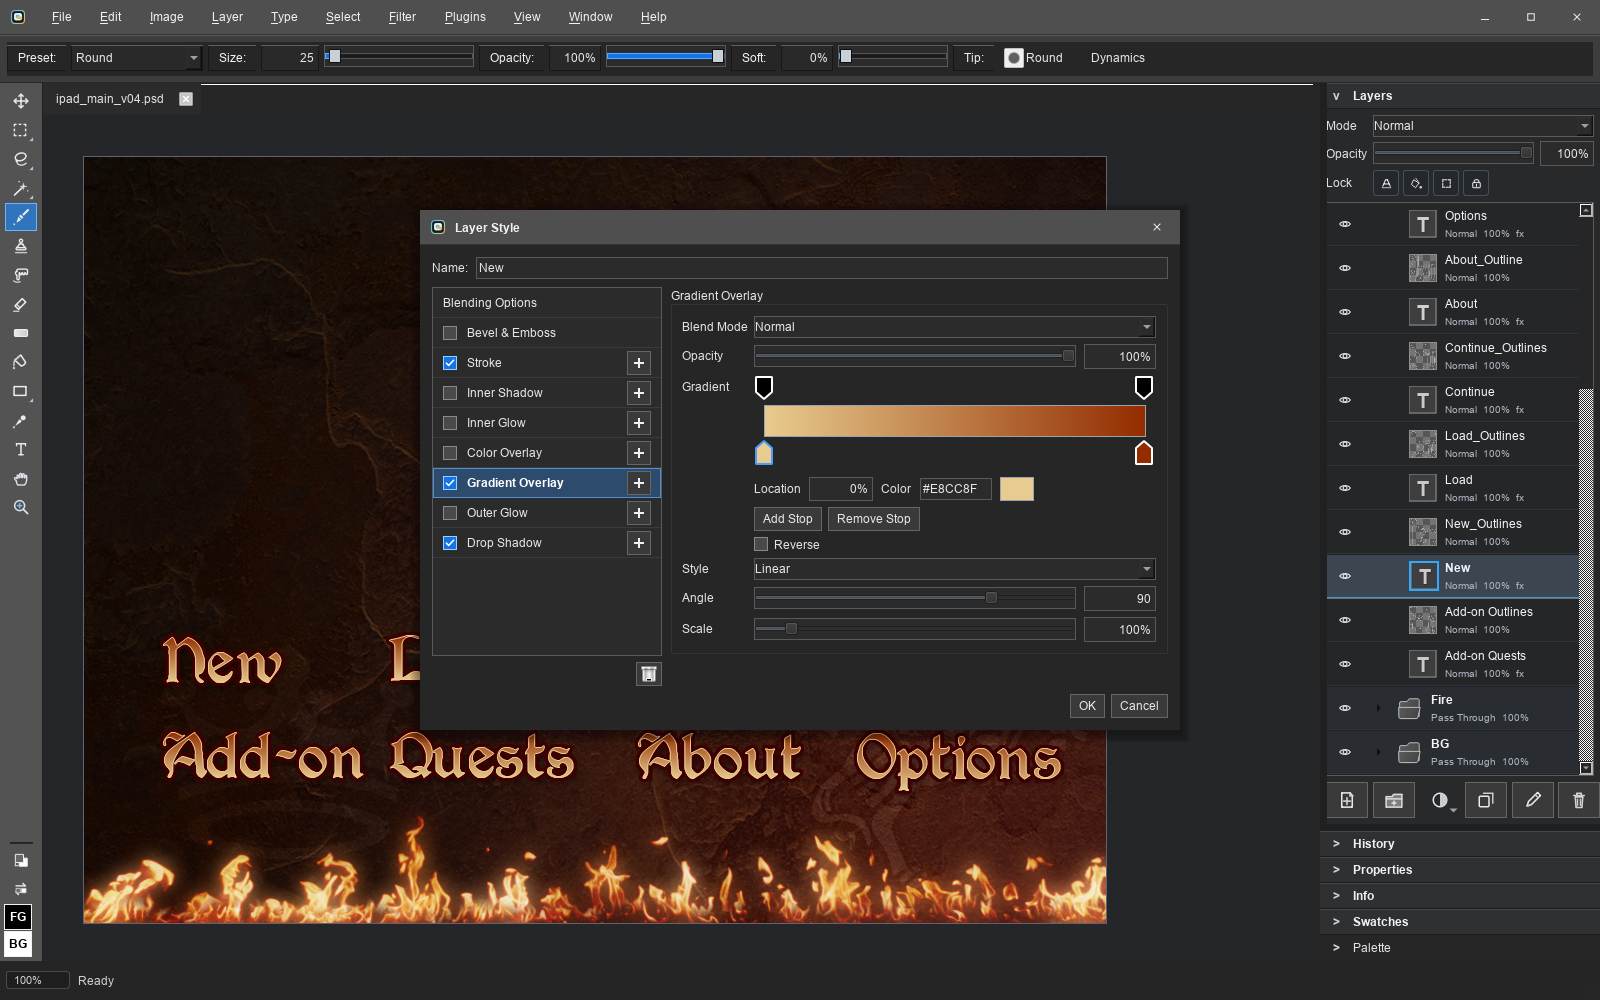
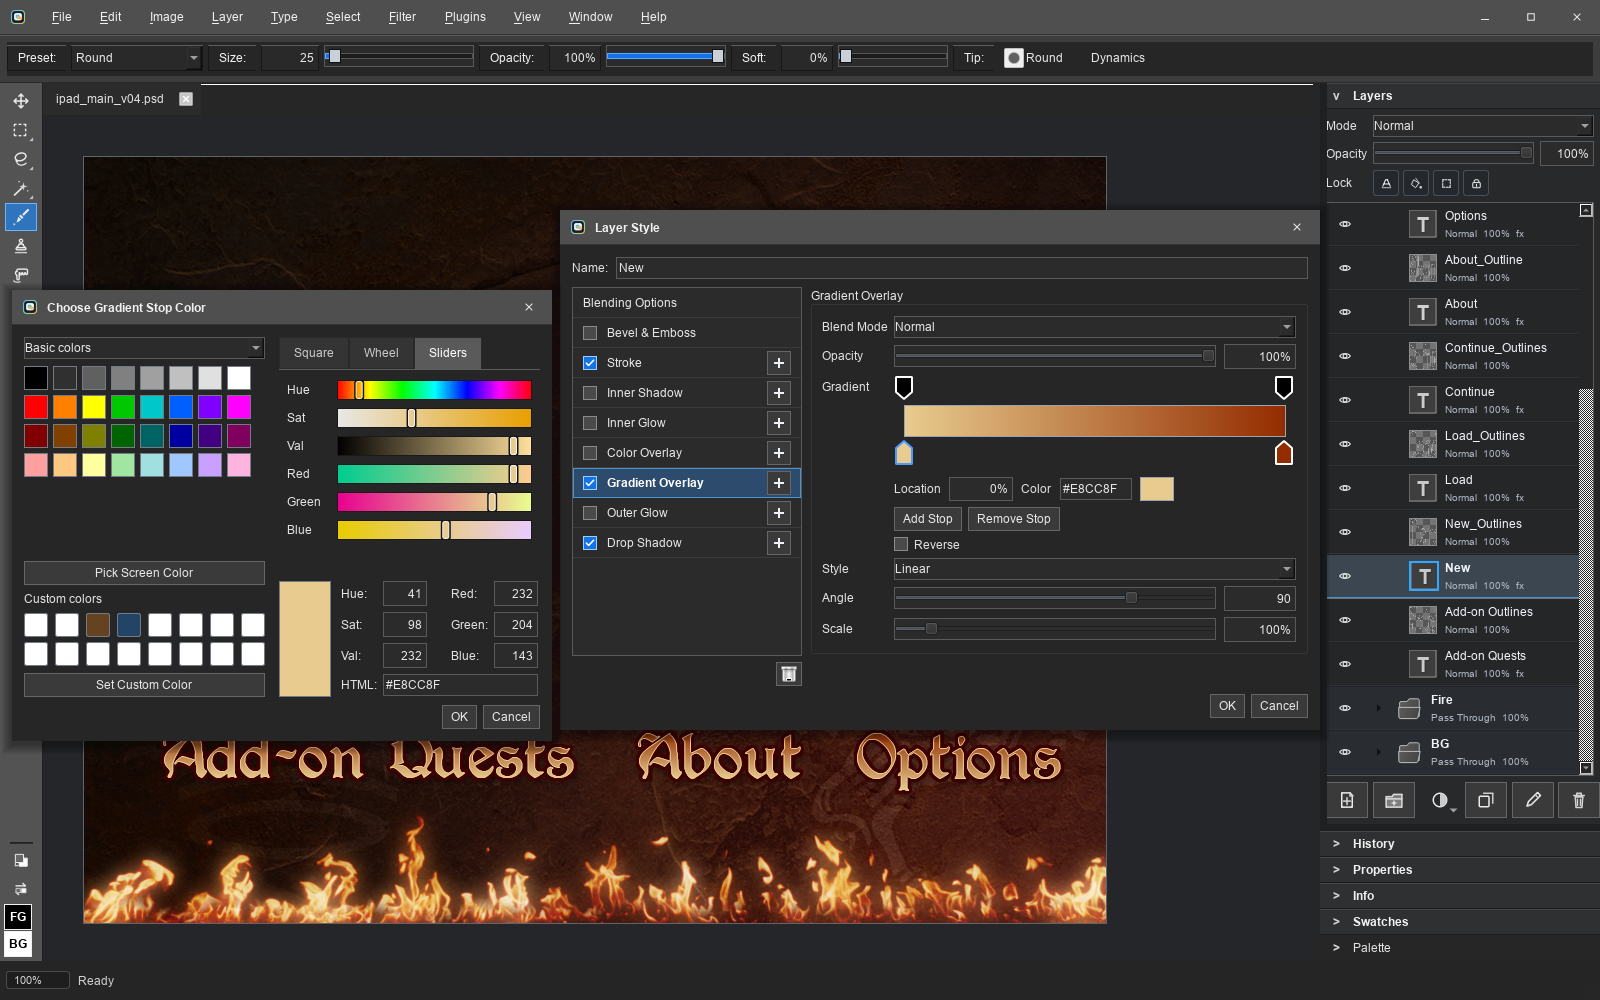
README screenshots: show the color picker in each of its three modes across the retouching, gradient, and palettized shots (Wheel + DOS/VGA 256 dropdown, Sliders from a gradient stop, Square on the C64 current palette)

diff --git a/tests/ui_visual_tests.cpp b/tests/ui_visual_tests.cpp
@@ -27975,8 +27975,50 @@ void seed_default_brush_tips_for_readme_shot() {
   settings.sync();
 }
 
-// Photo-editing hero: the Okinawa cycling photo with rulers and grid on, and
-// the Levels dialog's live histogram floating over the canvas.
+// Points an open color picker at one of its three modes (0 Square, 1 Wheel,
+// 2 Sliders) and optionally a palette-dropdown choice, so each README shot
+// showing a picker presents a different face. Both writes persist app-wide
+// (colorPanel/lastTab, palettes/lastPaletteChoice); callers hold
+// SettingsValueRestorers for them.
+void configure_readme_color_picker(QDialog& dialog, int tab_index, const char* palette_choice) {
+  auto* picker = dialog.findChild<patchy::ui::PatchyColorPicker*>(QStringLiteral("patchyAdvancedColorPicker"));
+  CHECK(picker != nullptr);
+  auto* tabs = picker->findChild<QTabWidget*>(QStringLiteral("patchyColorPickerTabs"));
+  CHECK(tabs != nullptr);
+  CHECK(tabs->count() == 3);
+  tabs->setCurrentIndex(tab_index);
+  if (palette_choice != nullptr) {
+    auto* combo = picker->findChild<QComboBox*>(QStringLiteral("patchyColorPaletteCombo"));
+    CHECK(combo != nullptr);
+    const auto row = combo->findData(QString::fromLatin1(palette_choice));
+    CHECK(row >= 0);
+    combo->setCurrentIndex(row);
+  }
+  QApplication::processEvents();
+}
+
+// Opens the persistent Foreground Color picker via the toolbox swatch, applies
+// the requested mode, and parks it at a window-relative offset (the left side
+// in every scene, clear of the featured dialog on the right).
+QDialog* open_foreground_picker_for_readme_shot(patchy::ui::MainWindow& window, int tab_index,
+                                                const char* palette_choice, QPoint offset) {
+  auto* foreground = window.findChild<QPushButton*>(QStringLiteral("foregroundColorButton"));
+  CHECK(foreground != nullptr);
+  foreground->click();
+  QApplication::processEvents();
+  auto* dialog = find_top_level_dialog(QStringLiteral("patchyColorDialog"));
+  CHECK(dialog != nullptr);
+  CHECK(dialog->isVisible());
+  configure_readme_color_picker(*dialog, tab_index, palette_choice);
+  dialog->move(window.geometry().topLeft() + offset);
+  QApplication::processEvents();
+  return dialog;
+}
+
+// Photo-editing hero: the Okinawa cycling photo with rulers and grid on, the
+// Levels dialog's live histogram floating over the canvas, and the color
+// picker on the left in Wheel mode with its palette dropdown caught mid-choice
+// on DOS / VGA 256.
 void shot_readme_levels() {
   const auto path = patchy::test::local_psd_fixture_path("akiko_cycling_okinawa.jpg");
   if (!std::filesystem::exists(path)) {
@@ -27985,6 +28027,10 @@ void shot_readme_levels() {
   }
   QImage photo(QString::fromStdString(path.string()));
   CHECK(!photo.isNull());
+  // The picker tab and palette-dropdown choice persist app-wide; scope them to
+  // this scene so the other shots (and later suite runs) pick their own.
+  SettingsValueRestorer picker_tab_restorer(QStringLiteral("colorPanel/lastTab"));
+  SettingsValueRestorer palette_choice_restorer(QStringLiteral("palettes/lastPaletteChoice"));
   {
     // A coarse line grid reads well over a photo; the default fine mesh at
     // fit zoom washes the image out.
@@ -28015,6 +28061,17 @@ void shot_readme_levels() {
   require_action(window, "viewFitOnScreenAction")->trigger();
   QApplication::processEvents();
 
+  // Foreground color picker on the left (Wheel mode), its swatch grid already
+  // on DOS / VGA 256; the capture below opens the dropdown over it so the shot
+  // reads as the palette being chosen.
+  const QPoint picker_offset(60, 270);
+  auto* picker_dialog = open_foreground_picker_for_readme_shot(window, 1, "vga256", picker_offset);
+  auto* picker =
+      picker_dialog->findChild<patchy::ui::PatchyColorPicker*>(QStringLiteral("patchyAdvancedColorPicker"));
+  CHECK(picker != nullptr);
+  picker->setCurrentColor(QColor(0xE0, 0x50, 0x7A));  // the bike's bar-tape pink
+  QApplication::processEvents();
+
   bool captured = false;
   QTimer::singleShot(0, [&] {
     auto* dialog = find_top_level_dialog(QStringLiteral("patchyLevelsDialog"));
@@ -28026,16 +28083,32 @@ void shot_readme_levels() {
     const QPoint dialog_offset(790, 250);
     dialog->move(window.geometry().topLeft() + dialog_offset);
     QApplication::processEvents();
+    auto* combo = picker_dialog->findChild<QComboBox*>(QStringLiteral("patchyColorPaletteCombo"));
+    CHECK(combo != nullptr);
+    CHECK(combo->currentData().toString() == QStringLiteral("vga256"));
+    combo->showPopup();
+    QApplication::processEvents();
+    auto* palette_popup = combo->view()->window();
+    CHECK(palette_popup != nullptr);
+    CHECK(palette_popup->isVisible());
     reset_readme_status_bar(window);
     auto base = window.grab().toImage();
+    draw_readme_overlay(base, picker_dialog->grab().toImage(), picker_offset);
+    // The dropdown hangs off the combo's bottom edge, exactly where a click
+    // would open it.
+    const auto popup_offset = picker_offset + combo->mapTo(picker_dialog, QPoint(0, combo->height() + 1));
+    draw_readme_overlay(base, palette_popup->grab().toImage(), popup_offset);
     draw_readme_overlay(base, dialog->grab().toImage(), dialog_offset);
     save_readme_shot("shot_readme_levels", base);
     captured = true;
+    combo->hidePopup();
     dialog->reject();
   });
   require_action(window, "imageAdjustLevelsAction")->trigger();
   QApplication::processEvents();
   CHECK(captured);
+  picker_dialog->close();
+  QApplication::processEvents();
 
   // Rulers/grid persist to view settings on window teardown; toggle them back
   // off so the scenes that run after this one keep their clean canvases.
@@ -28046,13 +28119,17 @@ void shot_readme_levels() {
 
 // Layer Style dialog over the same PSD, opened on a button layer that carries
 // a drop shadow + stroke + gradient overlay, showing the Gradient Overlay page
-// with the two-track (color + opacity) stop editor.
+// with the two-track (color + opacity) stop editor — plus the "Choose Gradient
+// Stop Color" picker (Sliders mode) that clicking the selected 0% stop opens,
+// floating on the left.
 void shot_readme_layer_styles() {
   const auto path = patchy::test::local_psd_fixture_path("ipad_main_v04.psd");
   if (!std::filesystem::exists(path)) {
     std::cout << "[SKIP] ipad_main_v04 fixture missing: " << path.string() << '\n';
     return;
   }
+  SettingsValueRestorer picker_tab_restorer(QStringLiteral("colorPanel/lastTab"));
+  SettingsValueRestorer palette_choice_restorer(QStringLiteral("palettes/lastPaletteChoice"));
   patchy::ui::MainWindow window;
   show_readme_shot_window(window);
   window.add_document_session(patchy::psd::DocumentIo::read_file(path), QStringLiteral("ipad_main_v04.psd"));
@@ -28085,14 +28162,44 @@ void shot_readme_layer_styles() {
     categories->setCurrentItem(gradient_item);
     QApplication::processEvents();
 
-    const QPoint dialog_offset(420, 210);
+    // Right of center so the stop picker fits on the left without covering
+    // the dialog (or the layer list's fx badges).
+    const QPoint dialog_offset(560, 210);
     dialog->move(window.geometry().topLeft() + dialog_offset);
     QApplication::processEvents();
-    reset_readme_status_bar(window);
-    auto base = window.grab().toImage();
-    draw_readme_overlay(base, dialog->grab().toImage(), dialog_offset);
-    save_readme_shot("shot_readme_layer_styles", base);
-    captured = true;
+
+    // Clicking the already-selected 0% color stop opens the stop's color
+    // picker; it runs a nested event loop inside the release event, so the
+    // capture is scheduled first and fires while the picker is up.
+    auto* editor = dialog->findChild<patchy::ui::GradientStopsEditorWidget*>(
+        QStringLiteral("layerStyleGradientStopsEditor"));
+    auto* location = dialog->findChild<QSpinBox*>(QStringLiteral("layerStyleGradientStopLocationSpin"));
+    CHECK(editor != nullptr);
+    CHECK(location != nullptr);
+    CHECK(editor->isVisible());
+    CHECK(location->value() == 0);  // the 0% stop opens the page selected
+    // The color tags live below the bar; the 0% tag sits at the left gutter.
+    const QPoint stop_tag(10, editor->height() - 18);
+    send_mouse(*editor, QEvent::MouseButtonPress, stop_tag, Qt::LeftButton, Qt::LeftButton);
+    QTimer::singleShot(0, [&] {
+      auto* picker_dialog = find_top_level_dialog(QStringLiteral("patchyColorDialog"));
+      CHECK(picker_dialog != nullptr);
+      CHECK(picker_dialog->isVisible());
+      configure_readme_color_picker(*picker_dialog, 2, "basic");
+      const QPoint picker_offset(12, 290);
+      picker_dialog->move(window.geometry().topLeft() + picker_offset);
+      process_events_for(120);
+      reset_readme_status_bar(window);
+      auto base = window.grab().toImage();
+      draw_readme_overlay(base, dialog->grab().toImage(), dialog_offset);
+      draw_readme_overlay(base, picker_dialog->grab().toImage(), picker_offset);
+      save_readme_shot("shot_readme_layer_styles", base);
+      captured = true;
+      picker_dialog->reject();  // restores the stop's original color
+    });
+    send_mouse(*editor, QEvent::MouseButtonRelease, stop_tag, Qt::LeftButton, Qt::NoButton);
+    QApplication::processEvents();
+    CHECK(captured);
     dialog->reject();
   });
   require_action(window, "layerBlendingOptionsAction")->trigger();
@@ -28238,8 +28345,9 @@ void shot_readme_brush_dynamics() {
 
 // Palettized (indexed color) mode: the Okinawa photo converted to the
 // Commodore 64 palette (WYSIWYG canvas), the Palette panel expanded with the
-// C64 swatches, and the Convert to Indexed dialog re-opened with its palette
-// dropdown showing the built-in retro presets.
+// C64 swatches, the Convert to Indexed dialog re-opened with its palette
+// dropdown showing the built-in retro presets, and the color picker on the
+// left (Square mode) pinned to the document's Current palette.
 void shot_readme_palette_mode() {
   const auto path = patchy::test::local_psd_fixture_path("akiko_cycling_okinawa.jpg");
   if (!std::filesystem::exists(path)) {
@@ -28248,6 +28356,7 @@ void shot_readme_palette_mode() {
   }
   QImage photo(QString::fromStdString(path.string()));
   CHECK(!photo.isNull());
+  SettingsValueRestorer picker_tab_restorer(QStringLiteral("colorPanel/lastTab"));
   patchy::ui::MainWindow window;
   show_readme_shot_window(window);
   window.add_document_session(patchy::ui::document_from_qimage(photo, "akiko_cycling_okinawa"),
@@ -28293,6 +28402,31 @@ void shot_readme_palette_mode() {
   }
   QApplication::processEvents();
 
+  // Color picker on the left (Square mode): palette mode pins its dropdown to
+  // the document's Current palette, so the swatch grid shows the 16 C64
+  // colors. Click the light-blue swatch so a cell reads as selected and the
+  // foreground color matches the constrained document.
+  const QPoint picker_offset(50, 250);
+  auto* picker_dialog = open_foreground_picker_for_readme_shot(window, 0, nullptr, picker_offset);
+  {
+    auto* combo = picker_dialog->findChild<QComboBox*>(QStringLiteral("patchyColorPaletteCombo"));
+    CHECK(combo != nullptr);
+    CHECK(combo->currentData().toString() == QStringLiteral("current"));
+    auto* grid = picker_dialog->findChild<QWidget*>(QStringLiteral("patchyColorPaletteGrid"));
+    CHECK(grid != nullptr);
+    CHECK(grid->property("paletteColorCount").toInt() == 16);
+    const auto cell = grid->property("paletteCellSize").toInt() + grid->property("paletteCellGap").toInt();
+    const auto columns = grid->property("paletteColumns").toInt();
+    CHECK(cell > 0);
+    CHECK(columns > 0);
+    const int light_blue_index = 14;  // C64 hardware palette order
+    const QPoint swatch((light_blue_index % columns) * cell + cell / 2,
+                        (light_blue_index / columns) * cell + cell / 2);
+    send_mouse(*grid, QEvent::MouseButtonPress, swatch, Qt::LeftButton, Qt::LeftButton);
+    send_mouse(*grid, QEvent::MouseButtonRelease, swatch, Qt::LeftButton, Qt::NoButton);
+    QApplication::processEvents();
+  }
+
   // Second pass: re-open the dialog over the converted canvas and grab the
   // scene with the palette dropdown open on the preset list.
   bool captured = false;
@@ -28319,6 +28453,7 @@ void shot_readme_palette_mode() {
     CHECK(popup->isVisible());
     reset_readme_status_bar(window);
     auto base = window.grab().toImage();
+    draw_readme_overlay(base, picker_dialog->grab().toImage(), picker_offset);
     draw_readme_overlay(base, dialog->grab().toImage(), dialog_offset);
     // The dropdown hangs off the combo's bottom edge, exactly where a click
     // would open it.
@@ -28332,6 +28467,8 @@ void shot_readme_palette_mode() {
   require_action(window, "imageModeIndexedAction")->trigger();
   QApplication::processEvents();
   CHECK(captured);
+  picker_dialog->close();
+  QApplication::processEvents();
 
   // Rulers persist to view settings on window teardown; toggle them back off
   // so the scenes that run after this one keep their clean canvases.

diff --git a/README.md b/README.md
@@ -15,12 +15,12 @@ Click a thumbnail for the full-size image.
 <table>
   <tr>
     <td align="center">
-      <a href="docs/images/screenshots/levels.png"><img src="docs/images/screenshots/levels.png" width="270" alt="Levels adjustment over a photo with rulers and grid"></a>
-      <br><sub>Photo retouching: Levels histogram with live preview, rulers and grid</sub>
+      <a href="docs/images/screenshots/levels.png"><img src="docs/images/screenshots/levels.png" width="270" alt="Levels adjustment over a photo with rulers and grid, and the color wheel picker choosing the DOS / VGA 256 swatch palette"></a>
+      <br><sub>Photo retouching: Levels histogram with live preview, and the color picker's palette dropdown</sub>
     </td>
     <td align="center">
-      <a href="docs/images/screenshots/layer_styles.png"><img src="docs/images/screenshots/layer_styles.png" width="270" alt="Layer Style dialog with gradient overlay editor"></a>
-      <br><sub>Photoshop-style layer styles with a two-track gradient editor</sub>
+      <a href="docs/images/screenshots/layer_styles.png"><img src="docs/images/screenshots/layer_styles.png" width="270" alt="Layer Style dialog with gradient overlay editor and the color picker opened from a gradient stop"></a>
+      <br><sub>Photoshop-style layer styles: two-track gradient editor, stops open the color picker</sub>
     </td>
     <td align="center">
       <a href="docs/images/screenshots/brush_tips.png"><img src="docs/images/screenshots/brush_tips.png" width="270" alt="Brush tip picker with built-in brush tips"></a>
@@ -33,7 +33,7 @@ Click a thumbnail for the full-size image.
       <br><sub>Brush dynamics: jitter, scattering and pen controls</sub>
     </td>
     <td align="center">
-      <a href="docs/images/screenshots/palette_mode.png"><img src="docs/images/screenshots/palette_mode.png" width="270" alt="Convert to Indexed dialog with retro palette presets over a photo constrained to the Commodore 64 palette"></a>
+      <a href="docs/images/screenshots/palette_mode.png"><img src="docs/images/screenshots/palette_mode.png" width="270" alt="Convert to Indexed dialog with retro palette presets over a photo constrained to the Commodore 64 palette, and the color picker pinned to the document palette"></a>
       <br><sub>Palettized (indexed color) editing with built-in retro palettes, from NES to Commodore 64</sub>
     </td>
     <td align="center">